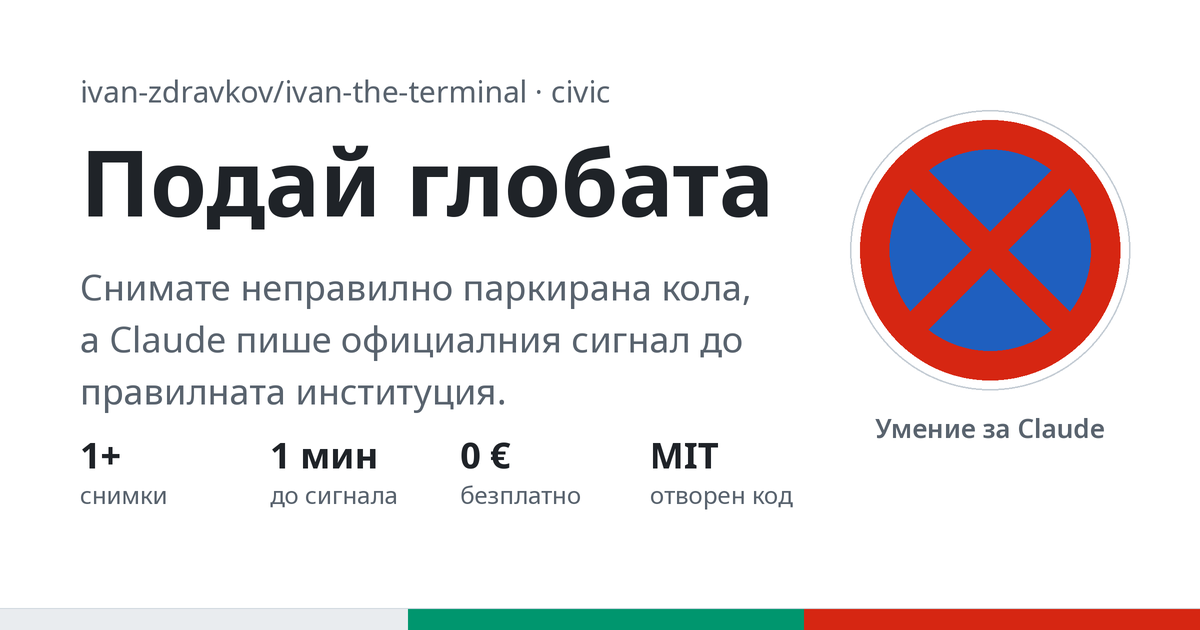
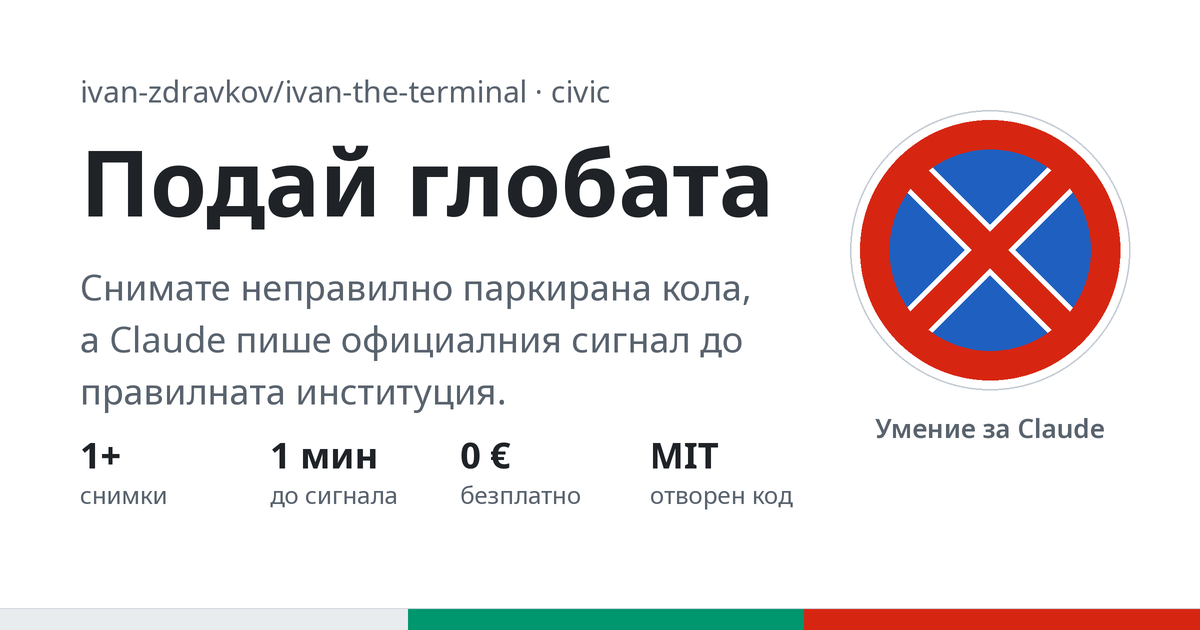
podai-globata: white edges on the В27 cross

Changed region(s): [[0.74, 0.2714, 0.8942, 0.5127]]

diff --git a/podai-globata/index.html b/podai-globata/index.html
@@ -12,7 +12,7 @@
   <meta property="og:url" content="https://zdravkov.dev/podai-globata/">
   <meta property="og:title" content="Подай глобата">
   <meta property="og:description" content="Снимате неправилно паркирана кола, а Claude пише официалния сигнал до правилната институция. Безплатно умение за Claude за Android и iPhone.">
-  <meta property="og:image" content="https://zdravkov.dev/podai-globata/preview.png?v=2">
+  <meta property="og:image" content="https://zdravkov.dev/podai-globata/preview.png?v=3">
   <meta property="og:image:width" content="1200">
   <meta property="og:image:height" content="630">
   <meta property="og:image:alt" content="Подай глобата: знак „Забранено спирането и престоят“ и описание на умението">
